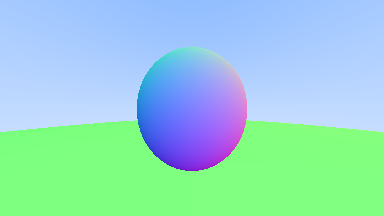
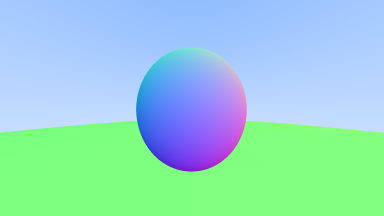
Chapter 7

diff --git a/src/main.rs b/src/main.rs
@@ -1,16 +1,20 @@
+pub mod camera;
 pub mod hit_record;
 pub mod hittable;
 pub mod hittable_list;
 pub mod ray;
 pub mod sphere;
+pub mod utilities;
 pub mod vec3;
 
+use camera::Camera;
 use hit_record::HitRecord;
 use hittable::Hittable;
 use hittable_list::HittableList;
 use image::ImageBuffer;
 use ray::Ray;
 use sphere::Sphere;
+use utilities::random_double;
 use vec3::Vec3;
 
 pub fn ray_color(r: &Ray, world: &dyn Hittable) -> Vec3 {
@@ -27,11 +31,7 @@ pub fn main() {
     let aspect_ratio = 16.0 / 9.0;
     let image_width = 384;
     let image_height = (image_width as f64 / aspect_ratio) as u32;
-
-    let origin = Vec3(0.0, 0.0, 0.0);
-    let horizontal = Vec3(4.0, 0.0, 0.0);
-    let vertical = Vec3(0.0, 2.0, 0.0);
-    let lower_left_corner = Vec3(-2.0, -1.0, -1.0);
+    let samples_per_pixel = 100;
 
     let world = HittableList(vec![
         &Sphere {
@@ -44,19 +44,22 @@ pub fn main() {
         },
     ]);
 
+    let cam = Camera::new();
+
     ImageBuffer::from_fn(image_width, image_height, |x, y| {
         let i = x;
         let j = image_height - y;
 
-        let u = i as f64 / (image_width - 1) as f64;
-        let v = j as f64 / (image_height - 1) as f64;
+        let mut pixel_color = Vec3(0.0, 0.0, 0.0);
 
-        let r = Ray {
-            origin,
-            direction: lower_left_corner + u * horizontal + v * vertical,
-        };
+        for _ in 0..samples_per_pixel {
+            let u = (i as f64 + random_double()) / (image_width - 1) as f64;
+            let v = (j as f64 + random_double()) / (image_height - 1) as f64;
+            let r = cam.get_ray(u, v);
+            pixel_color += ray_color(&r, &world);
+        }
 
-        ray_color(&r, &world).into_rgb()
+        pixel_color.into_rgb(samples_per_pixel)
     })
     .save("image.png")
     .unwrap();

diff --git a/src/vec3.rs b/src/vec3.rs
@@ -1,5 +1,6 @@
+use crate::utilities::clamp;
 use image::Rgb;
-use std::ops::{Add, Div, Mul, Neg, Sub};
+use std::ops::{Add, AddAssign, Div, Mul, Neg, Sub};
 #[derive(Copy, Clone)]
 pub struct Vec3(pub f64, pub f64, pub f64);
 
@@ -40,11 +41,12 @@ impl Vec3 {
         *self / self.length()
     }
 
-    pub fn into_rgb(&self) -> Rgb<u8> {
+    pub fn into_rgb(&self, samples_per_pixel: i32) -> Rgb<u8> {
+        let scaled = *self / samples_per_pixel as f64;
         Rgb([
-            (self.0 * 255.999) as u8,
-            (self.1 * 255.999) as u8,
-            (self.2 * 255.999) as u8,
+            (clamp(scaled.0, 0.0, 0.999) * 256.0) as u8,
+            (clamp(scaled.1, 0.0, 0.999) * 256.0) as u8,
+            (clamp(scaled.2, 0.0, 0.999) * 256.0) as u8,
         ])
     }
 }
@@ -62,6 +64,12 @@ impl Add for Vec3 {
 
     fn add(self, rhs: Vec3) -> Self::Output {
         Vec3(self.0 + rhs.0, self.1 + rhs.1, self.2 + rhs.2)
+    }
+}
+
+impl AddAssign for Vec3 {
+    fn add_assign(&mut self, rhs: Vec3) {
+        *self = *self + rhs
     }
 }
 

diff --git a/src/camera.rs b/src/camera.rs
@@ -1,0 +1,27 @@
+use crate::{Ray, Vec3};
+
+pub struct Camera {
+    pub origin: Vec3,
+    pub lower_left_corner: Vec3,
+    pub horizontal: Vec3,
+    pub vertical: Vec3,
+}
+
+impl Camera {
+    pub fn new() -> Self {
+        Camera {
+            origin: Vec3(0.0, 0.0, 0.0),
+            lower_left_corner: Vec3(-2.0, -1.0, -1.0),
+            horizontal: Vec3(4.0, 0.0, 0.0),
+            vertical: Vec3(0.0, 2.0, 0.0),
+        }
+    }
+
+    pub fn get_ray(&self, u: f64, v: f64) -> Ray {
+        Ray {
+            origin: self.origin,
+            direction: self.lower_left_corner + u * self.horizontal + v * self.vertical
+                - self.origin,
+        }
+    }
+}

diff --git a/src/utilities.rs b/src/utilities.rs
@@ -1,0 +1,24 @@
+use rand::random;
+use std::f64::consts::PI;
+
+pub fn clamp(x: f64, min: f64, max: f64) -> f64 {
+    if x < min {
+        min
+    } else if x > max {
+        max
+    } else {
+        x
+    }
+}
+
+pub fn degrees_to_radians(degrees: f64) -> f64 {
+    degrees * PI / 180.0
+}
+
+pub fn random_double() -> f64 {
+    random::<f64>()
+}
+
+pub fn random_range(min: f64, max: f64) -> f64 {
+    min + (max - min) * random::<f64>()
+}
